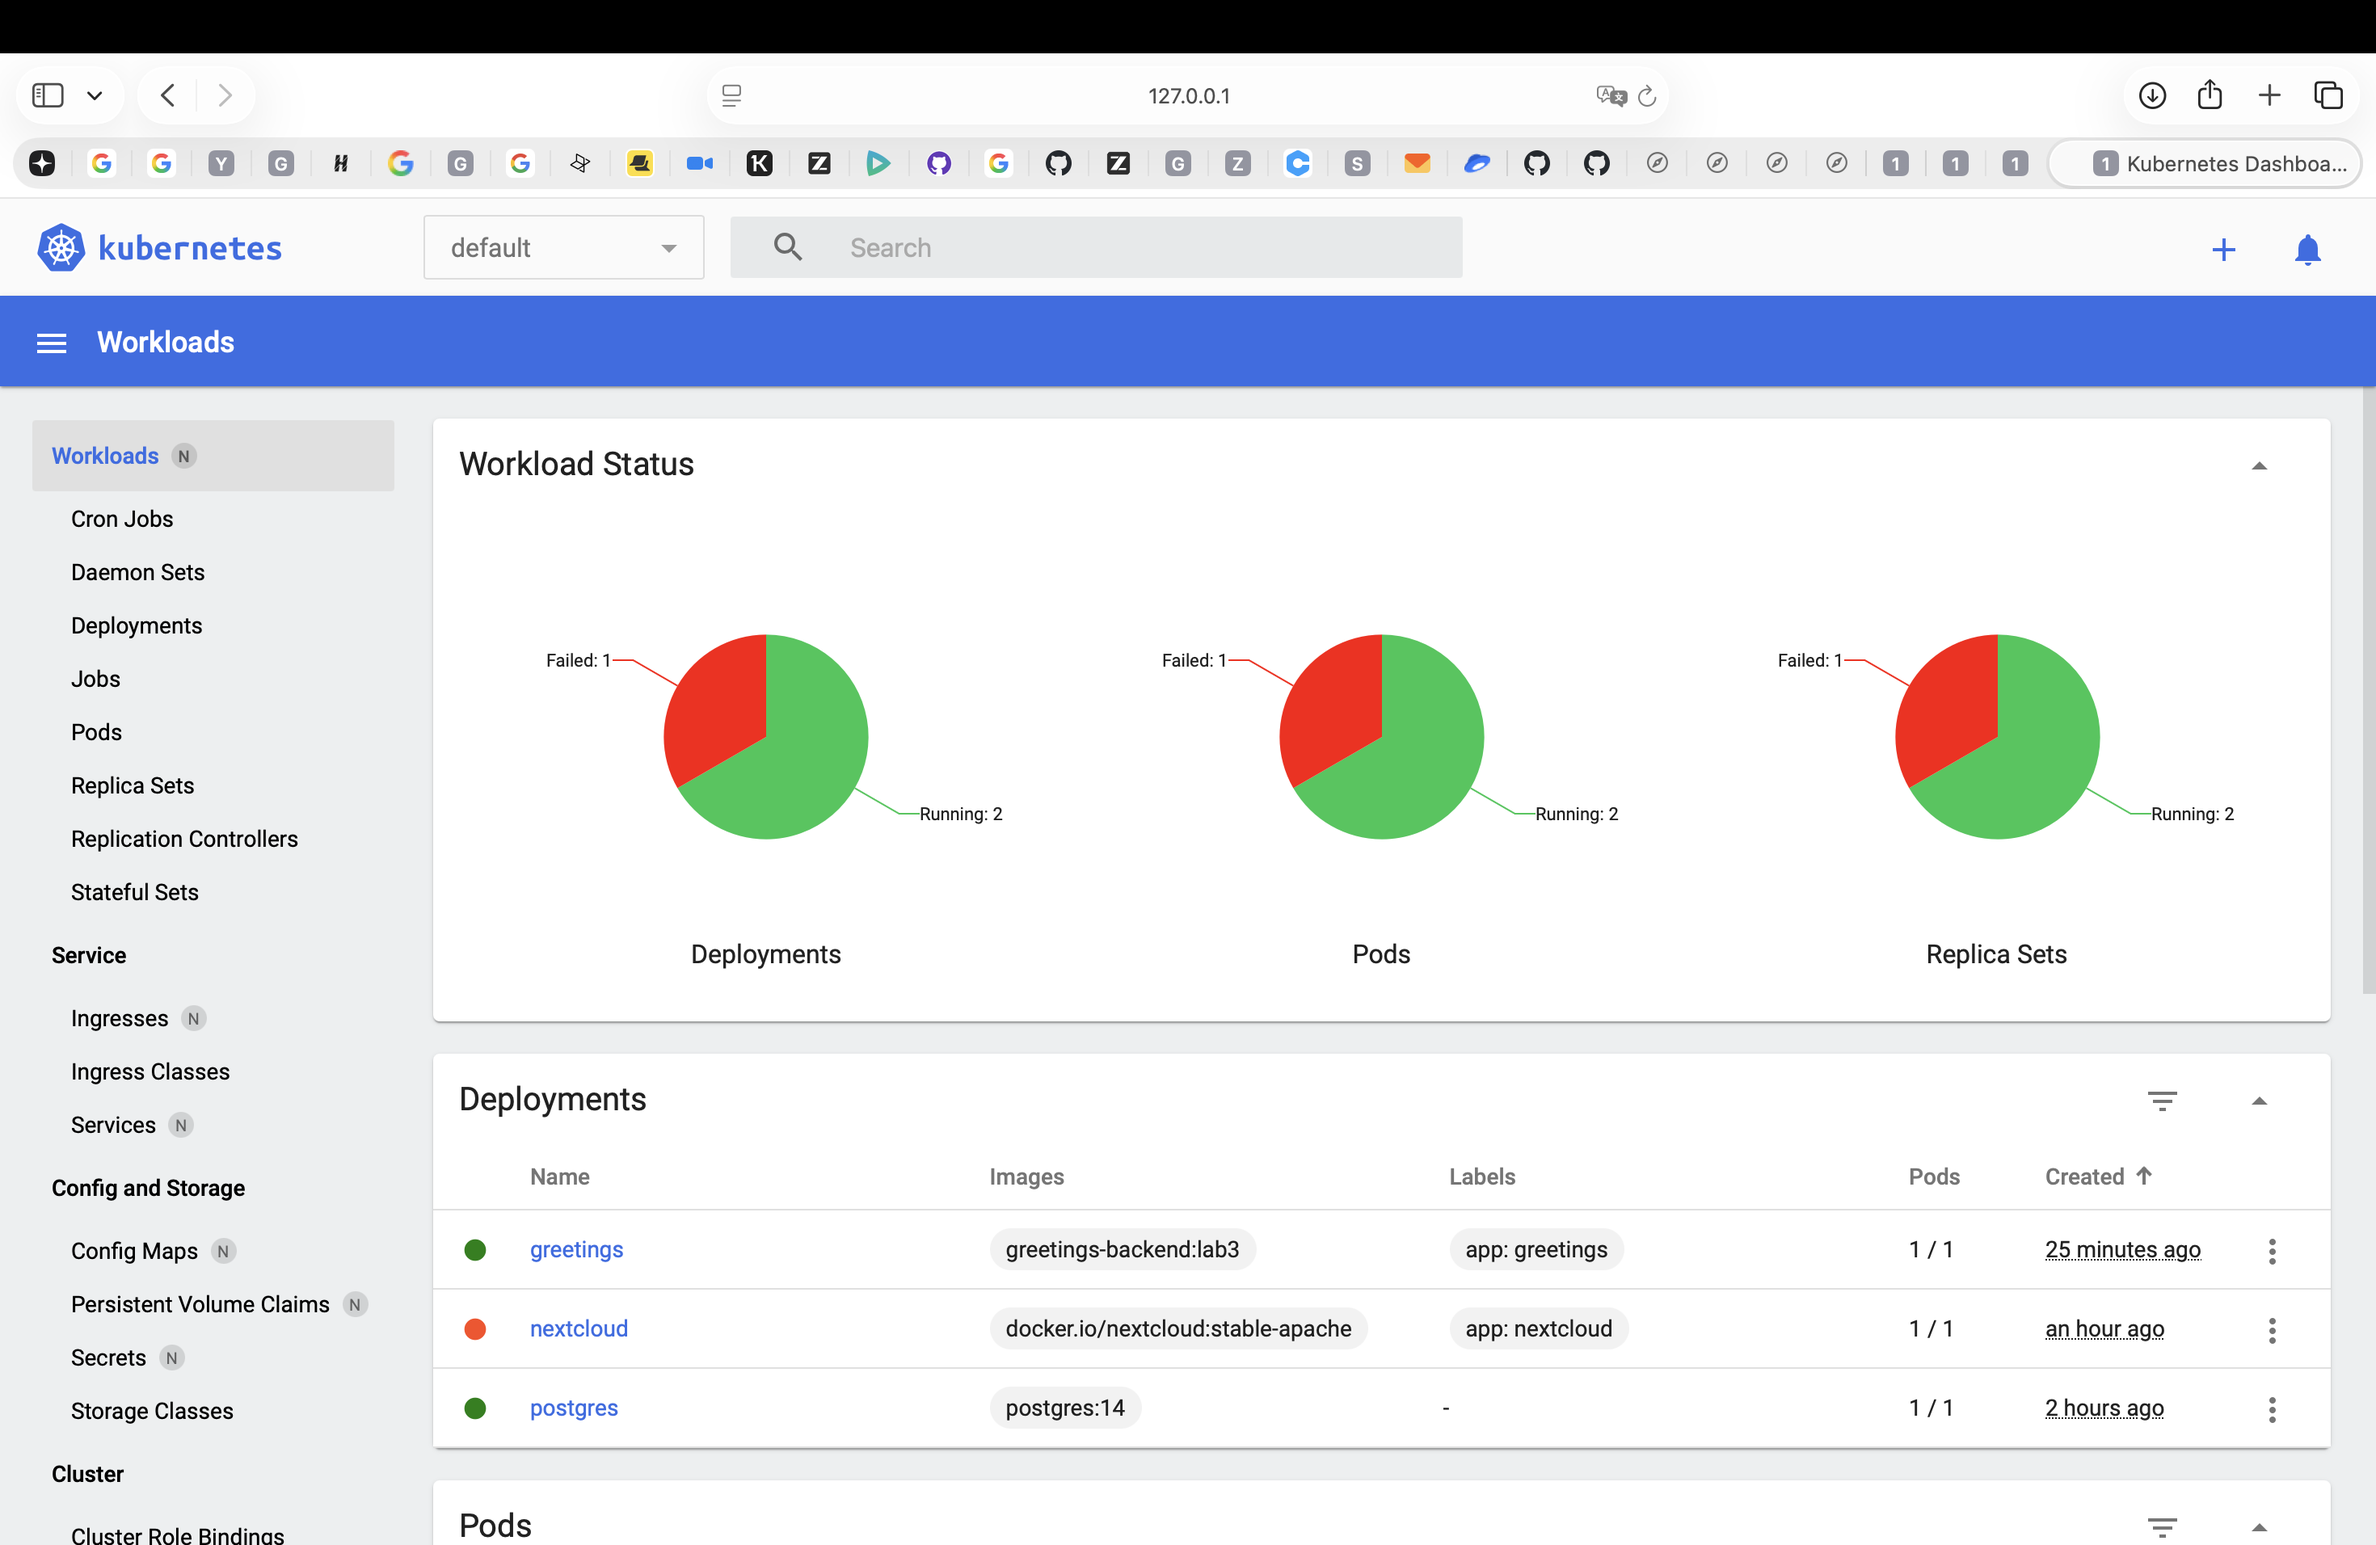
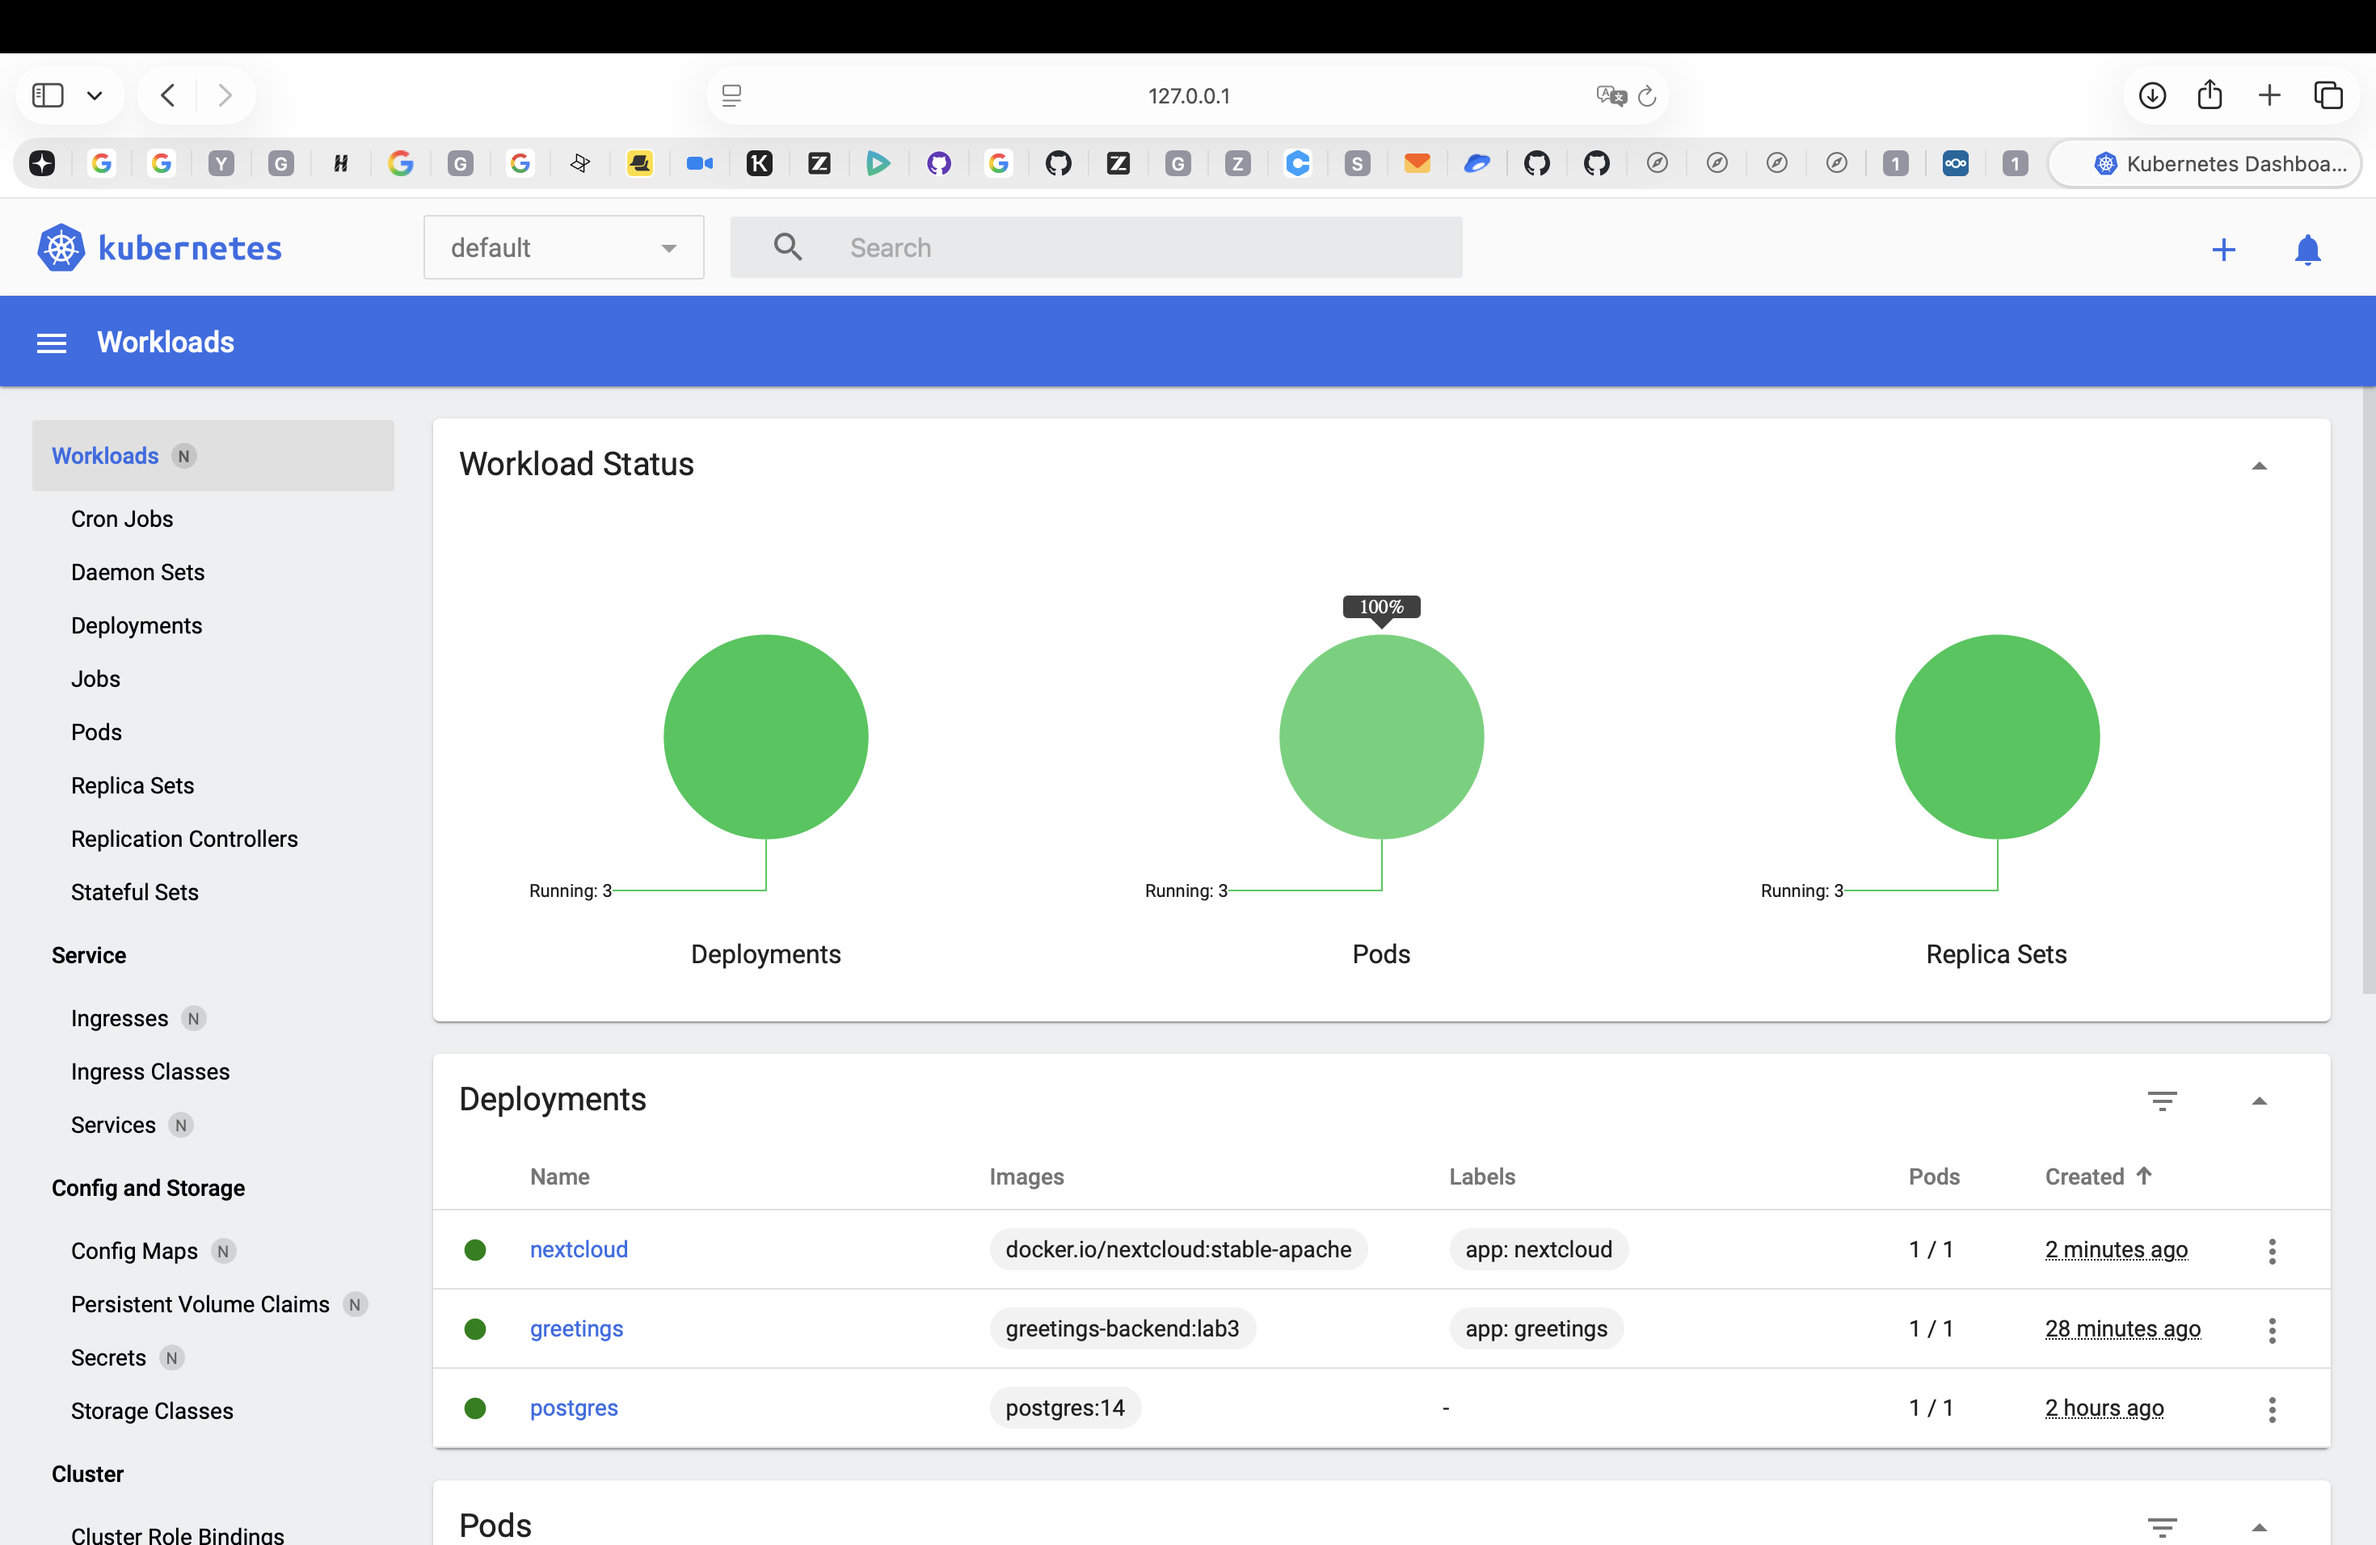
lab3: healthy dashboard screenshot, embed in README

diff --git a/lab3/README.md b/lab3/README.md
@@ -267,8 +267,13 @@ $ curl -s http://127.0.0.1:65506/status.php
 
 ```bash
 minikube dashboard --url
-# http://127.0.0.1:49678
+# http://127.0.0.1:49678/api/v1/namespaces/kubernetes-dashboard/services/http:kubernetes-dashboard:/proxy/
 ```
+
+Workloads: все три деплоймента зелёные (greetings, nextcloud, postgres —
+Running 3/3):
+
+![minikube dashboard: workloads](screenshots/03-k8s-dashboard.png)
 
 ### 7. Эксперимент: scale postgres 0 → 1
 
